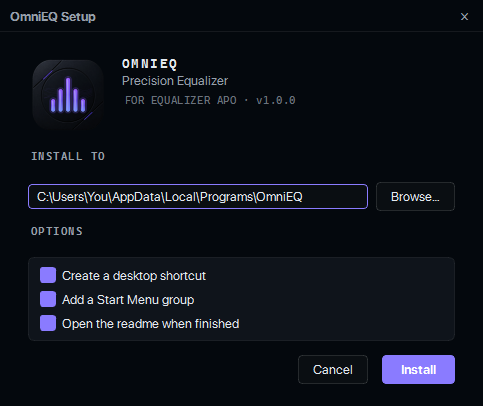
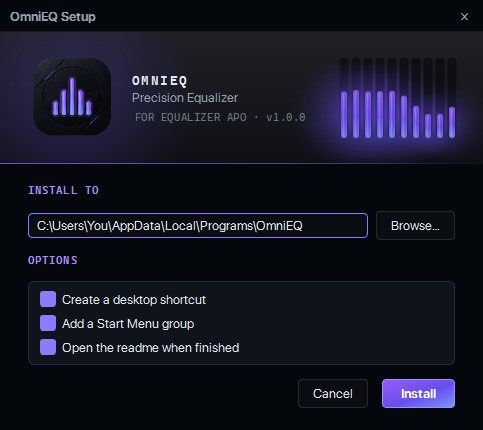
OmniSurround window (five tabs, speaker layout) and the restyled installer: docs + screenshots

diff --git a/docs/FEATURES.md b/docs/FEATURES.md
@@ -40,12 +40,17 @@ Headphone surround virtualisation: multi-channel (or stereo, upmixed) audio is f
 |---|---|
 | **The processing is OmniEQ's own** | OmniEQ generates the complete Equalizer APO processing chain (`omnisurround.txt`) itself. No separate program is involved once the move has run. |
 | **Profile library** | 368 ear/room profiles (HRIRs), 48 kHz and 44.1 kHz variants where they exist, plus the extended set. **Taken over from an existing HeSuVi installation** — OmniEQ does not ship them. |
+| **The window** | Five tabs, in the app's own look: *Virtualisation*, *Equaliser*, *Connection*, *Additional*, *About* — everything HeSuVi's own window offered. |
 | **On / off** | One switch. Applies immediately. |
-| **Profile selection** | Choose the HRIR. Both sample-rate variants are written; when a profile has no 44.1 kHz counterpart the status bar tells you. |
+| **Profile selection** | Two lists — *Common* (the 57 captured virtualisations) and *More* (255 research HRTF sets) — with a description beside each entry. Both sample-rate variants are written; when a profile has no 44.1 kHz counterpart the window says so. |
+| **Source format & upmix** | Treat the source as what it announces, or force stereo / 5.1. Stereo-to-all-positions spread and 5.1 remap are separate switches (the research profiles ask for the spread to be off). |
+| **Speaker positions** | Three sliders — front (towards centre ↔ sides), sides (front ↔ rear), rear (narrower ↔ wider) — and a **3D-style layout view** of the listener with the eight positions around them: drag a speaker, its pair swings round the head, the slider follows. The routing is a constant-power blend, so a source keeps its loudness while it travels; at 0 the placement is HeSuVi's own. |
+| **7.1 test** | One tone per position, L to SR, on the default output device. |
+| **Levels** | Eight per-channel trims (L R C SUB RL RR SL SR) as a mixer strip, master, crossfeed master, LFE-to-centre. |
+| **Speaker-group equalisers** | Front / sides / centre+LFE / back, each as Equalizer APO text — with the headphone-correction library one click away, so a measured curve lands on a group as itself. |
+| **Output routing** | Front pair only, or the pair duplicated across all channels for endpoints that need it. Plus the file paths the processing uses, and the sample-rate rules, spelled out. |
 | **Crossfeed** | On/off, crossover frequency, attenuation, delay (in samples), shelf, bass shelf, alternative method — the six values HeSuVi keeps in one line. |
-| **Levels** | Eight per-channel trims (L R C SUB RL RR SL SR), master, crossfeed master, LFE-to-centre. |
-| **Output mode** | Front pair only, or the pair duplicated across all channels for endpoints that need it. |
-| **Channel matrix & group EQs** | Carried over from HeSuVi as the engine's own text — exact, unrounded, still editable. |
+| **Channel matrix** | A hand-edited routing matrix from HeSuVi is carried over as text and honoured; the window says so and offers to discard it in favour of the sliders. |
 | **Move into OmniEQ…** | Copies the library and your settings, switches `config.txt` over *in place*, and only then — on a second, separate confirmation — offers to delete HeSuVi's folder. It refuses to delete unless the new processing is in place and the selected profile is present in OmniEQ's own copy. |
 | **Headphone corrections** | 1 355 measured correction curves from ~190 brands (also from HeSuVi's library). Search, pick, apply — as a graphic-EQ curve, **as itself**, nothing fitted or resampled. |
 

diff --git a/README.md b/README.md
@@ -61,7 +61,7 @@ OmniEQ is a native Windows desktop equalizer for **[Equalizer APO](https://sourc
 
 ### 🎧 OmniSurround
 - Headphone surround virtualisation with **368 ear/room profiles** and **1 355 headphone-correction curves** — taken over from your existing HeSuVi installation, then HeSuVi can go
-- Everything HeSuVi could set, in one panel: profile, crossfeed (six parameters), eight channel levels, master, LFE-to-centre, output mode, channel matrix, four speaker-group EQs
+- Everything HeSuVi's own window could set, in five tabs: two profile lists with descriptions, source format, stereo/5.1 upmix, **speaker positions with a draggable 3D-style layout**, a per-position 7.1 test, eight channel levels, master, LFE-to-centre, four speaker-group EQs with the correction library one click away, output routing, crossfeed (six parameters)
 - Changes apply **immediately** — no restart, no re-registration
 
 ### 🗂 Presets & migration
@@ -94,7 +94,7 @@ Full list with details: **[docs/FEATURES.md](docs/FEATURES.md)**
 <td align="center" width="50%"><img src="assets/screenshots/06-graph.png" alt="Frequency response graph" width="440"><br><sub><b>Frequency response</b> — your curve and the effective result</sub></td>
 </tr>
 <tr>
-<td align="center"><img src="assets/screenshots/03-omnisurround.png" alt="OmniSurround panel" height="420"><br><sub><b>OmniSurround</b> — every surround setting, one panel</sub></td>
+<td align="center"><img src="assets/screenshots/03-omnisurround.png" alt="OmniSurround panel" height="420"><br><sub><b>OmniSurround</b> — profiles, positions, upmix and a draggable speaker layout</sub></td>
 <td align="center"><img src="assets/screenshots/04-headphone-corrections.png" alt="Headphone corrections browser" height="420"><br><sub><b>Headphone corrections</b> — 1 355 measured curves, searchable</sub></td>
 </tr>
 <tr>

diff --git a/CHANGELOG.md b/CHANGELOG.md
@@ -17,7 +17,7 @@ First public release.
 - VST2 effects and free Equalizer APO commands per channel (VST3 with a VST3-capable engine build)
 
 ### OmniSurround
-- Headphone surround virtualisation generated by OmniEQ itself; profile, crossfeed, levels, LFE, output mode, channel matrix, group EQs
+- Headphone surround virtualisation generated by OmniEQ itself; five-tab window with two profile lists and descriptions, source format, stereo/5.1 upmix, speaker positions with a draggable 3D-style layout view, per-position 7.1 test, levels, speaker-group EQs, output routing, crossfeed
 - One-click move from an existing HeSuVi installation: 368 profiles and 1 355 headphone-correction curves taken over, settings carried, config switched in place, engine removal offered separately
 - Headphone-correction browser applying measured curves as themselves
 
